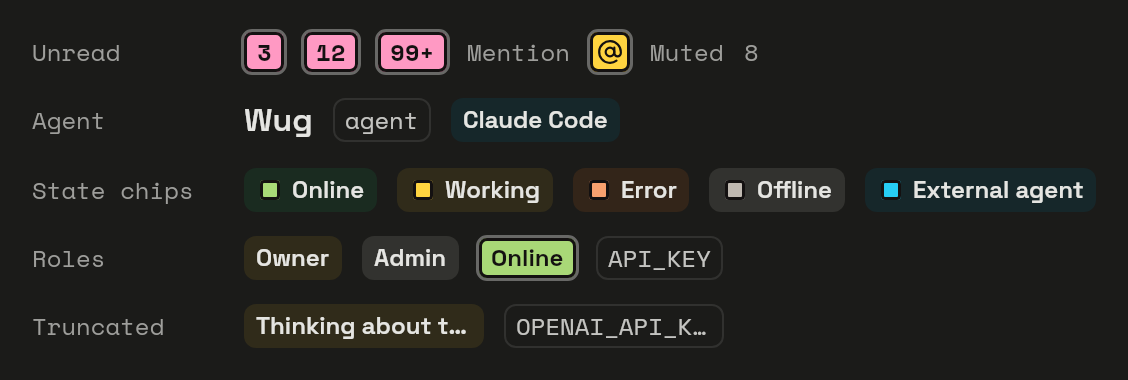
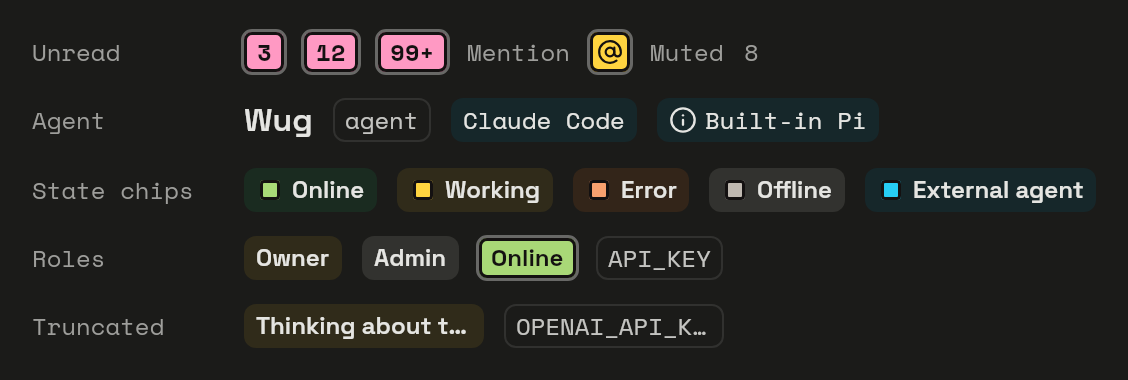
fix(members): agent profile hero type and runtime chip match the web
Port of the web AgentDetailPanel profile hero (botiverse/slock adda90b97):

- Name: PanelTitle `text-headline` bold (17/22) instead of `text-title`
  resized to 20/28.
- @handle: `foreground-hint` instead of `foreground-muted`.
- Runtime chip: the DS runtime chip (`.rf-runtime`, Space Mono
  `text-mono-meta` 400 on `info-soft`) led by Lucide `cpu`, instead of a
  soft information badge in Space Grotesk semibold with no icon.
- Status chip light: the 10dp `lead-dot` instead of 8dp.

designsystem: RaftRuntimeChip (Badge preset), RaftBadgeFrame shared chrome,
README row, badge_tags goldens. Lucide `cpu` added through
generate_lucide_icons.py (compose, shared catalog, iOS imageset).
New golden members.agent-profile-header (light/dark).

Changed region(s): [[0.5895, 0.2895, 0.7757, 0.3474], [0.4034, 0.2895, 0.5585, 0.3474]]

diff --git a/compose/shared/src/commonMain/kotlin/build/raft/app/MembersPage.kt b/compose/shared/src/commonMain/kotlin/build/raft/app/MembersPage.kt
@@ -236,6 +236,7 @@ import build.raft.designsystem.components.RaftSidebarSectionHeader
 import build.raft.designsystem.components.RaftPanelNotice
 import build.raft.designsystem.components.RaftBadgeAppearance
 import build.raft.designsystem.components.RaftBadgeVariant
+import build.raft.designsystem.components.RaftRuntimeChip
 import build.raft.designsystem.components.RaftSectionEyebrow
 import build.raft.designsystem.components.RaftSeparator
 import build.raft.designsystem.components.RaftIconButtonSize
@@ -9302,7 +9303,7 @@ private fun AgentStatus?.membersStatusBadgeVariant(): RaftBadgeVariant =
     }
 
 @Composable
-private fun MembersAgentProfileHeader(
+internal fun MembersAgentProfileHeader(
     member: MemberProfile,
     summary: AgentDetailSummary?,
     canEdit: Boolean,
@@ -9332,8 +9333,9 @@ private fun MembersAgentProfileHeader(
             .padding(bottom = RaftAppSpacing.Sm),
         verticalArrangement = Arrangement.spacedBy(RaftAppSpacing.Md)
     ) {
-        // raft-ui agent page hero: the 99dp sticker avatar with the hard shadow, the name, the
-        // handle in Space Mono, the `Agent` tag and the runtime chip, then the status chip.
+        // raft-ui agent page hero: the 99dp sticker avatar with the hard shadow, the name
+        // (PanelTitle: `text-headline` bold), the handle (`font-mono text-mono-meta
+        // text-foreground-hint`), the `Agent` tag and the runtime chip, then the status chip.
         val colors = RaftTheme.colors
         val typography = RaftTheme.typography
         val runtimeId = summary?.runtime?.takeIf { it.isNotBlank() }
@@ -9357,9 +9359,10 @@ private fun MembersAgentProfileHeader(
             Column(
                 modifier = Modifier.weight(1f).padding(top = RaftAppSpacing.Xs)
             ) {
+                // Web PanelTitle (cindyz 10-10): the name reads the same here as in the head.
                 RaftText(
                     text = member.displayName,
-                    style = typography.title.copy(fontSize = 20.sp, lineHeight = 28.sp),
+                    style = typography.headline,
                     color = colors.foreground,
                     maxLines = 1,
                     overflow = TextOverflow.Ellipsis,
@@ -9368,7 +9371,7 @@ private fun MembersAgentProfileHeader(
                 RaftText(
                     text = member.detailHandle,
                     style = typography.monoMeta,
-                    color = colors.foregroundMuted,
+                    color = colors.foregroundHint,
                     maxLines = 1,
                     overflow = TextOverflow.Ellipsis,
                     modifier = Modifier.raftCopyable(member.detailHandle)
@@ -9396,11 +9399,11 @@ private fun MembersAgentProfileHeader(
                         MemberKindBadge(member.kind)
                     }
                     if (runtimeId != null && appBot == null) {
-                        RaftBadge(
+                        // Web `agent-profile-runtime-chip`: the DS runtime chip led by Lucide `cpu`.
+                        RaftRuntimeChip(
                             text = getRuntimeDisplayName(runtimeId),
-                            appearance = RaftBadgeAppearance.Soft,
-                            variant = RaftBadgeVariant.Information,
-                            modifier = Modifier.raftCopyable(getRuntimeDisplayName(runtimeId))
+                            modifier = Modifier.raftCopyable(getRuntimeDisplayName(runtimeId)),
+                            icon = { RaftContentLucideIcon(RaftLucideIconName.Cpu, size = 14.dp) }
                         )
                     }
                 }
@@ -9418,8 +9421,8 @@ private fun MembersAgentProfileHeader(
                     modifier = Modifier.padding(top = 6.dp),
                     icon = if (agentStatusObservedState != null) {
                         {
-                            // raft-ui Status: a still light, never an animation.
-                            RaftStatusIndicator(color = agentStatusObservedState.color, size = 8.dp, pulsing = false)
+                            // raft-ui Status in a Badge (`lead-dot`): the 10dp light, never an animation.
+                            RaftStatusIndicator(color = agentStatusObservedState.color, pulsing = false)
                         }
                     } else {
                         null

diff --git a/compose/shared/src/androidUnitTest/kotlin/build/raft/app/MembersAgentProfileHeaderScreenshotTest.kt b/compose/shared/src/androidUnitTest/kotlin/build/raft/app/MembersAgentProfileHeaderScreenshotTest.kt
@@ -1,0 +1,99 @@
+package build.raft.app
+
+import androidx.compose.foundation.background
+import androidx.compose.foundation.layout.Box
+import androidx.compose.foundation.layout.fillMaxSize
+import androidx.compose.foundation.layout.padding
+import androidx.compose.runtime.Composable
+import androidx.compose.runtime.CompositionLocalProvider
+import androidx.compose.runtime.remember
+import androidx.compose.ui.Modifier
+import androidx.compose.ui.unit.dp
+import build.raft.app.compat.json.JSONObject
+import build.raft.app.compat.pager.LocalActivity
+import build.raft.app.compat.pager.PageData
+import build.raft.app.compat.pager.Pager
+import build.raft.app.compat.pager.RaftPageActivity
+import build.raft.app.components.RaftDesignSystemTheme
+import build.raft.app.data.AgentDetailSummary
+import build.raft.app.model.AgentStatus
+import build.raft.app.model.MemberId
+import build.raft.app.model.MemberKind
+import build.raft.app.model.MemberProfile
+import build.raft.app.model.Presence
+import build.raft.designsystem.theme.RaftTheme
+import kotlin.test.Test
+import org.junit.Rule
+import org.junit.runner.RunWith
+import org.robolectric.RobolectricTestRunner
+import org.robolectric.annotation.Config
+import org.robolectric.annotation.GraphicsMode
+
+/**
+ * JVM screenshot of the agent profile hero (web AgentDetailPanel profile hero), light and
+ * dark: the sticker avatar, the name (PanelTitle, `text-headline` bold), the `@handle`
+ * (Space Mono `text-mono-meta`, `foreground-hint`), the outline `Agent` tag, the runtime
+ * chip led by Lucide `cpu` (`.rf-runtime`, Space Mono 400 on `info-soft`) and the
+ * online status chip with its 10dp light. Verify / record as [RaftRobolectricScreenshot].
+ */
+@RunWith(RobolectricTestRunner::class)
+@GraphicsMode(GraphicsMode.Mode.NATIVE)
+@Config(sdk = [34], qualifiers = "w390dp-h200dp-xxhdpi")
+class MembersAgentProfileHeaderScreenshotTest {
+    @get:Rule
+    val activities = RobolectricComposeActivityRule()
+
+    @Test
+    fun headerLight() = capture("members.agent-profile-header", RaftAppAppearance.Light)
+
+    @Test
+    fun headerDark() = capture("members.agent-profile-header.dark", RaftAppAppearance.Dark)
+
+    private fun capture(name: String, appearance: RaftAppAppearance) =
+        RaftRobolectricScreenshot.capture(
+            name,
+            appearance,
+            reportDir = "build/reports/home-screenshots",
+            activities = activities,
+        ) {
+            val pager =
+                remember {
+                    object : Pager() {}.apply { pageData = PageData(JSONObject().apply { put("slockVisualZeroSafeArea", true) }) }
+                }
+            CompositionLocalProvider(LocalActivity provides RaftPageActivity(pager)) {
+                RaftDesignSystemTheme { HeaderContent() }
+            }
+        }
+}
+
+private val headerAgent =
+    MemberProfile(
+        id = MemberId("agent-ruby"),
+        displayName = "Ruby",
+        handle = "Ruby",
+        kind = MemberKind.Agent,
+    )
+
+private val headerSummary =
+    AgentDetailSummary(
+        id = "agent-ruby",
+        name = "Ruby",
+        displayName = "Ruby",
+        status = "online",
+        runtime = "builtin",
+    )
+
+@Composable
+private fun HeaderContent() {
+    val online = raftAgentStatusIndicatorState(status = AgentStatus.Online, presence = Presence.Active, external = false)
+    Box(Modifier.fillMaxSize().background(RaftTheme.colors.layerCanvas).padding(horizontal = 20.dp, vertical = 16.dp)) {
+        MembersAgentProfileHeader(
+            member = headerAgent,
+            summary = headerSummary,
+            canEdit = false,
+            agentStatusObservedState = online,
+            agentStatusIndicatorState = online,
+            onChangeAvatar = {},
+        )
+    }
+}

diff --git a/compose/shared/src/commonMain/kotlin/build/raft/app/RaftLucideIconPaths.kt b/compose/shared/src/commonMain/kotlin/build/raft/app/RaftLucideIconPaths.kt
@@ -426,6 +426,26 @@ internal object RaftLucideIconPaths {
                         RaftLucidePathSpec("M4 16c-1.1 0-2-.9-2-2V4c0-1.1.9-2 2-2h10c1.1 0 2 .9 2 2"),
                     ),
                 )
+            RaftLucideIconName.Cpu ->
+                RaftLucideIconSpec(
+                    "cpu",
+                    listOf(
+                        RaftLucidePathSpec("M12 20v2"),
+                        RaftLucidePathSpec("M12 2v2"),
+                        RaftLucidePathSpec("M17 20v2"),
+                        RaftLucidePathSpec("M17 2v2"),
+                        RaftLucidePathSpec("M2 12h2"),
+                        RaftLucidePathSpec("M2 17h2"),
+                        RaftLucidePathSpec("M2 7h2"),
+                        RaftLucidePathSpec("M20 12h2"),
+                        RaftLucidePathSpec("M20 17h2"),
+                        RaftLucidePathSpec("M20 7h2"),
+                        RaftLucidePathSpec("M7 20v2"),
+                        RaftLucidePathSpec("M7 2v2"),
+                        RaftLucidePathSpec("M 6.0 4.0 H 18.0 A 2.0 2.0 0 0 1 20.0 6.0 V 18.0 A 2.0 2.0 0 0 1 18.0 20.0 H 6.0 A 2.0 2.0 0 0 1 4.0 18.0 V 6.0 A 2.0 2.0 0 0 1 6.0 4.0 Z"),
+                        RaftLucidePathSpec("M 9.0 8.0 H 15.0 A 1.0 1.0 0 0 1 16.0 9.0 V 15.0 A 1.0 1.0 0 0 1 15.0 16.0 H 9.0 A 1.0 1.0 0 0 1 8.0 15.0 V 9.0 A 1.0 1.0 0 0 1 9.0 8.0 Z"),
+                    ),
+                )
             RaftLucideIconName.CreditCard ->
                 RaftLucideIconSpec(
                     "credit-card",

diff --git a/compose/designsystem/src/commonMain/kotlin/build/raft/designsystem/components/RaftBadgePresets.kt b/compose/designsystem/src/commonMain/kotlin/build/raft/designsystem/components/RaftBadgePresets.kt
@@ -172,6 +172,31 @@ fun RaftAgentTag(modifier: Modifier = Modifier, text: String = "agent") {
     RaftBadge(text = text, modifier = modifier, appearance = RaftBadgeAppearance.Outline)
 }
 
+/**
+ * The runtime chip (raft-ui `.rf-runtime`, web AgentDetailPanel `RUNTIME_CHIP_CLASS`): the
+ * soft `information` Badge in machine type, `font-mono text-mono-meta font-normal`, so a
+ * runtime name ("Claude Code", "Built-in Pi") reads as what a machine runs, not as a word.
+ * The agent profile hero leads it with Lucide `cpu` in [icon] (14dp, badge ink); the Runtime
+ * row of the config section leaves it out. [trailing] is the account-usage light.
+ */
+@Composable
+fun RaftRuntimeChip(
+    text: String,
+    modifier: Modifier = Modifier,
+    icon: (@Composable () -> Unit)? = null,
+    trailing: (@Composable () -> Unit)? = null,
+) {
+    RaftBadgeFrame(
+        text = text,
+        look =
+            raftBadgeLook(RaftBadgeAppearance.Soft, RaftBadgeVariant.Information, enabled = true, colors = RaftTheme.colors)
+                .copy(mono = true, weight = FontWeight.Normal),
+        modifier = modifier,
+        icon = icon,
+        trailing = trailing,
+    )
+}
+
 /** The soft tint of each presence light (Status > Agent state chips). */
 internal fun raftPresenceChipVariant(presence: RaftPresence): RaftBadgeVariant =
     when (presence) {

diff --git a/compose/designsystem/src/desktopTest/kotlin/build/raft/designsystem/screenshot/DisplayComponentScreenshotTest.kt b/compose/designsystem/src/desktopTest/kotlin/build/raft/designsystem/screenshot/DisplayComponentScreenshotTest.kt
@@ -52,6 +52,7 @@ import build.raft.designsystem.components.RaftBackButtonDefaults
 import build.raft.designsystem.components.RaftBadge
 import build.raft.designsystem.components.RaftBadgeAppearance
 import build.raft.designsystem.components.RaftBadgeVariant
+import build.raft.designsystem.components.RaftRuntimeChip
 import build.raft.designsystem.components.RaftBanner
 import build.raft.designsystem.components.RaftBannerSize
 import build.raft.designsystem.components.RaftBannerStatus
@@ -434,7 +435,9 @@ class DisplayComponentScreenshotTest {
                     Caption("Agent", Modifier.width(96.dp))
                     RaftText("Wug", style = RaftTheme.typography.body.copy(fontWeight = FontWeight.SemiBold))
                     RaftAgentTag()
-                    RaftBadge("Claude Code", appearance = RaftBadgeAppearance.Soft, variant = RaftBadgeVariant.Information)
+                    RaftRuntimeChip("Claude Code")
+                    // The app leads it with Lucide `cpu`; the `info` glyph stands in for it here.
+                    RaftRuntimeChip("Built-in Pi", icon = { RaftGlyphIcon(RaftGlyph.Info, size = 14.dp) })
                 }
                 Row(horizontalArrangement = Arrangement.spacedBy(10.dp), verticalAlignment = Alignment.CenterVertically) {
                     Caption("State chips", Modifier.width(96.dp))

diff --git a/compose/designsystem/src/commonMain/kotlin/build/raft/designsystem/components/RaftBadge.kt b/compose/designsystem/src/commonMain/kotlin/build/raft/designsystem/components/RaftBadge.kt
@@ -182,12 +182,31 @@ fun RaftBadge(
     icon: (@Composable () -> Unit)? = null,
     trailing: (@Composable () -> Unit)? = null,
 ) {
-    val look = raftBadgeLook(appearance, variant, enabled, RaftTheme.colors)
+    RaftBadgeFrame(
+        text = text,
+        look = raftBadgeLook(appearance, variant, enabled, RaftTheme.colors),
+        modifier = modifier,
+        tabularFigures = appearance == RaftBadgeAppearance.Solid,
+        icon = icon,
+        trailing = trailing,
+    )
+}
+
+/** The badge chrome around a resolved [look]; presets that adjust the look draw through it. */
+@Composable
+internal fun RaftBadgeFrame(
+    text: String,
+    look: RaftBadgeLook,
+    modifier: Modifier = Modifier,
+    tabularFigures: Boolean = false,
+    icon: (@Composable () -> Unit)? = null,
+    trailing: (@Composable () -> Unit)? = null,
+) {
     val typography = RaftTheme.typography
     val textStyle: TextStyle =
         (if (look.mono) typography.monoMeta else typography.caption).copy(
             fontWeight = look.weight,
-            fontFeatureSettings = if (appearance == RaftBadgeAppearance.Solid) "tnum" else null,
+            fontFeatureSettings = if (tabularFigures) "tnum" else null,
         )
     val shape = RoundedCornerShape(look.radius)
     Row(

diff --git a/compose/shared/src/commonMain/kotlin/build/raft/app/RaftLucideIconCatalog.kt b/compose/shared/src/commonMain/kotlin/build/raft/app/RaftLucideIconCatalog.kt
@@ -55,6 +55,7 @@ enum class RaftLucideIconName(val wireName: String) {
     Code("code"),
     Columns3("columns-3"),
     Copy("copy"),
+    Cpu("cpu"),
     CreditCard("credit-card"),
     Crop("crop"),
     Dices("dices"),

diff --git a/scripts/generate_lucide_icons.py b/scripts/generate_lucide_icons.py
@@ -101,6 +101,7 @@ LUCIDE_ICONS = [
     "code",
     "columns-3",
     "copy",
+    "cpu",
     "credit-card",
     "crop",
     "dices",

diff --git a/compose/designsystem/README.md b/compose/designsystem/README.md
@@ -174,7 +174,7 @@ Other checks:
 | --- | --- | --- | --- |
 | `RaftSeparator` | Separator | Done | Horizontal, vertical, with a word |
 | `RaftBadge` | Badge | Done | Solid / Soft / Outline x 8 variants, disabled look, icon slot, a trailing slot 4dp past the label (a runtime label's usage `RaftStatusDot`). Not clickable (the caller adds the tap) |
-| `RaftUnreadCount`, `RaftMentionMarker`, `RaftMutedCount`, `RaftAgentTag`, `RaftAgentStateChip` | Badge, Status | Done | Count (99+, read as "N unread" with the full number), with a thread segment (`RaftUnreadCount(count, threadCount)`: `5 · [thread] 2`, raft-ui `SidebarItemThreadCount`), @ marker (a `you` sticker), gray muted count, `agent` tag, agent state chips |
+| `RaftUnreadCount`, `RaftMentionMarker`, `RaftMutedCount`, `RaftAgentTag`, `RaftAgentStateChip`, `RaftRuntimeChip` | Badge, Status | Done | Count (99+, read as "N unread" with the full number), with a thread segment (`RaftUnreadCount(count, threadCount)`: `5 · [thread] 2`, raft-ui `SidebarItemThreadCount`), @ marker (a `you` sticker), gray muted count, `agent` tag, agent state chips, runtime chip (`.rf-runtime`: soft `information` in Space Mono `text-mono-meta` 400, optional leading icon such as the app's Lucide `cpu`) |
 | `RaftSpinner` | Spinner | Done | Pixel spinner, xs–lg, inverse, `stillStep` for stills and reduced motion |
 | `RaftButton`, `RaftIconButton` | Button | Done | 6 variants, md / lg / xl and icon xs (24) / sm (28) / md / lg; pressed and mouse hover (the press overlay, as the web's `hover:`; no ripple), focus ring, disabled (no overlay), busy (focusable, semantics disabled, taps ignored). No underlined-text variant: that is `RaftTextLink`. One-line label that ends in an ellipsis when the button is narrowed (semantics keep the full text); `trailingText` (a link's domain) follows it at regular weight and stays whole. `RaftIconButton(onClick, tooltip, …)`: `tooltip` names the action in Title Case, is the content description, and is shown as a `RaftTooltip` on a long press or mouse hover (a long press that opens it does not click). The tooltip adds no screen-reader stop: the button is the one node. `tooltip = null` shows none and names the button by `contentDescription`; `onLongClick` (named `longClickLabel`) takes the long press, leaving the tooltip to the mouse; `Xs` / `Sm` widen their touch target to 44dp |
 | `RaftTooltip` | Tooltip | Done | The dark HUD bubble (`layer-hud`, `foreground-on-hud`, `radius-chip`, 10 x 4dp padding, footnote 13/18 medium, `shadow-float`) with a 10 x 5.25dp caret, 8dp above the anchor (below when there is no room). A mouse / trackpad hover keeps it open until the pointer leaves; a long press opens it for 1.5s (and does not click). Not focusable, no semantics node of its own. Material3 `TooltipBox` + `PlainTooltip` (positioning and popup; the gestures are the module's), so its width caps at 200dp (raft-ui: 320dp) |
